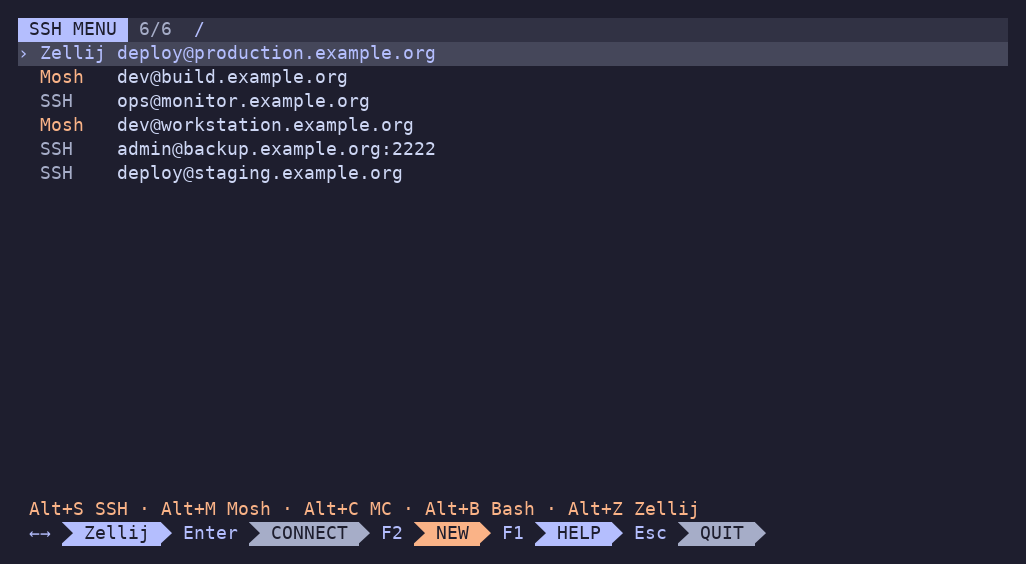
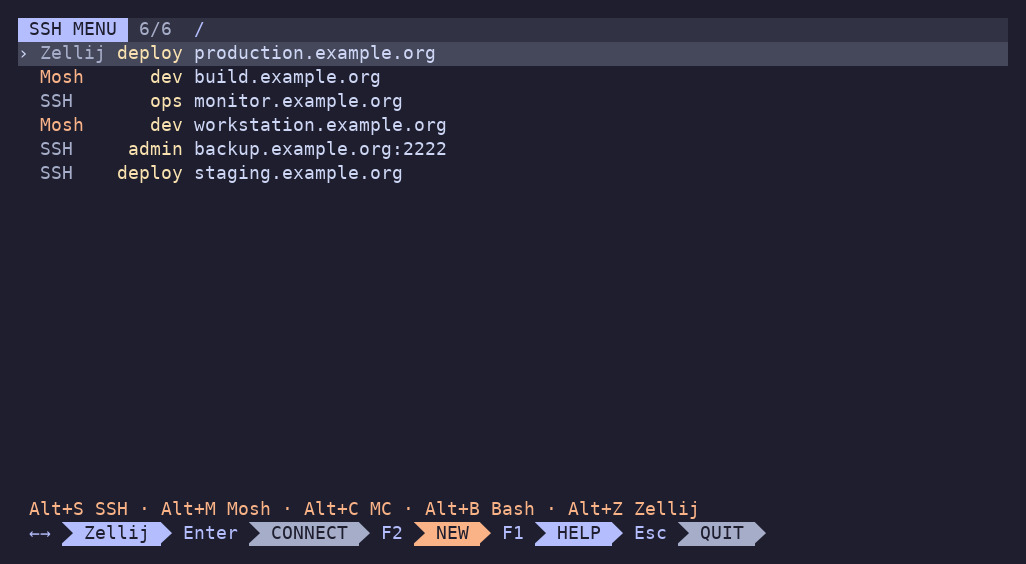
Separate profile, username, and host into aligned columns

Changed region(s): [[0.0312, 0.0904, 0.4366, 0.3316]]

diff --git a/src/main.rs b/src/main.rs
@@ -11,7 +11,7 @@ use crossterm::{
 };
 use ratatui::{
     DefaultTerminal,
-    layout::{Constraint, Layout},
+    layout::{Alignment, Constraint, Layout},
     style::{Modifier, Style},
     text::{Line, Span},
     widgets::{Block, Cell, List, ListItem, ListState, Paragraph, Row, Table, TableState},
@@ -33,6 +33,7 @@ mod theme {
     pub const SURFACE: Color = Color::Rgb(49, 50, 68);
     pub const SELECTION: Color = Color::Rgb(69, 71, 90);
     pub const LAVENDER: Color = Color::Rgb(180, 190, 254);
+    pub const USERNAME: Color = Color::Rgb(249, 226, 175);
     pub const PEACH: Color = Color::Rgb(250, 179, 135);
 }
 
@@ -311,18 +312,24 @@ fn menu(
             );
             let rows: Vec<_> = visible
                 .iter()
-                .enumerate()
-                .map(|(row, i)| {
+                .map(|i| {
                     let profile = &config.profiles[profiles[*i]];
                     let mosh = profile.program() == "mosh";
+                    let label = targets[*i].label();
+                    let (username, host) = label.rsplit_once('@').unwrap_or(("", &label));
                     Row::new(vec![
-                        Cell::from(if row == selection { "›" } else { "" }),
                         Cell::from(profile.name.clone()).style(Style::default().fg(if mosh {
                             theme::PEACH
                         } else {
                             theme::SUBTEXT
                         })),
-                        Cell::from(targets[*i].label()),
+                        Cell::from(Line::from(username.to_owned()).alignment(Alignment::Right))
+                            .style(
+                                Style::default()
+                                    .fg(theme::USERNAME)
+                                    .add_modifier(Modifier::BOLD),
+                            ),
+                        Cell::from(host.to_owned()),
                     ])
                 })
                 .collect();
@@ -341,21 +348,29 @@ fn menu(
                     .map(|profile| Line::from(profile.name.as_str()).width())
                     .max()
                     .unwrap_or(0)
-                    .min(usize::from(areas[1].width.saturating_sub(3) / 3))
+                    .min(usize::from(areas[1].width.saturating_sub(4) / 3))
+                    as u16;
+                let username_width = targets
+                    .iter()
+                    .filter_map(|target| target.host.rsplit_once('@').map(|(user, _)| user))
+                    .map(|user| Line::from(user).width())
+                    .max()
+                    .unwrap_or(0)
+                    .min(usize::from(areas[1].width.saturating_sub(4) / 4))
                     as u16;
                 let table = Table::new(
                     rows,
                     [
-                        Constraint::Length(1),
                         Constraint::Length(profile_width),
+                        Constraint::Length(username_width),
                         Constraint::Min(1),
                     ],
                 )
                 .column_spacing(1)
+                .highlight_symbol("› ")
                 .row_highlight_style(
                     Style::default()
                         .bg(theme::SELECTION)
-                        .fg(theme::LAVENDER)
                         .add_modifier(Modifier::BOLD),
                 );
                 let mut state = TableState::default().with_selected(Some(selection));

diff --git a/docs/usage.md b/docs/usage.md
@@ -1,6 +1,6 @@
 # Using SSH Menu
 
-Your existing hosts appear automatically in three aligned, borderless columns: selection marker, launch profile, and host.
+Your existing hosts appear automatically in three aligned, borderless columns: launch profile (left), username (right, highlighted), and host (left). The selection marker sits beside the row. An unspecified username leaves its column blank; explicit ports stay with the host.
 
 1. Type part of a hostname and select a matching row with **↑ / ↓**.
 2. Use **← / →** to choose how that host opens, then press **Enter**.
